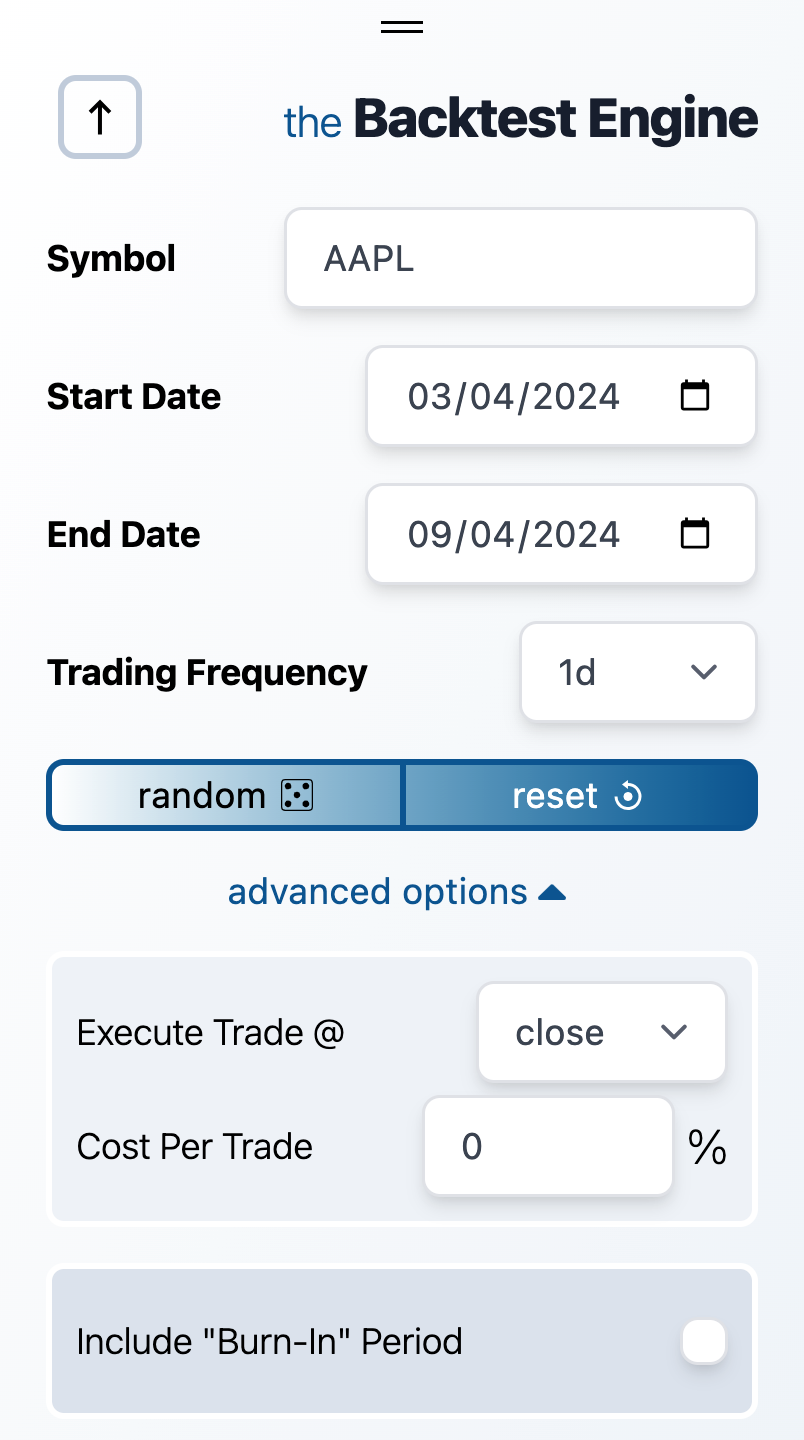
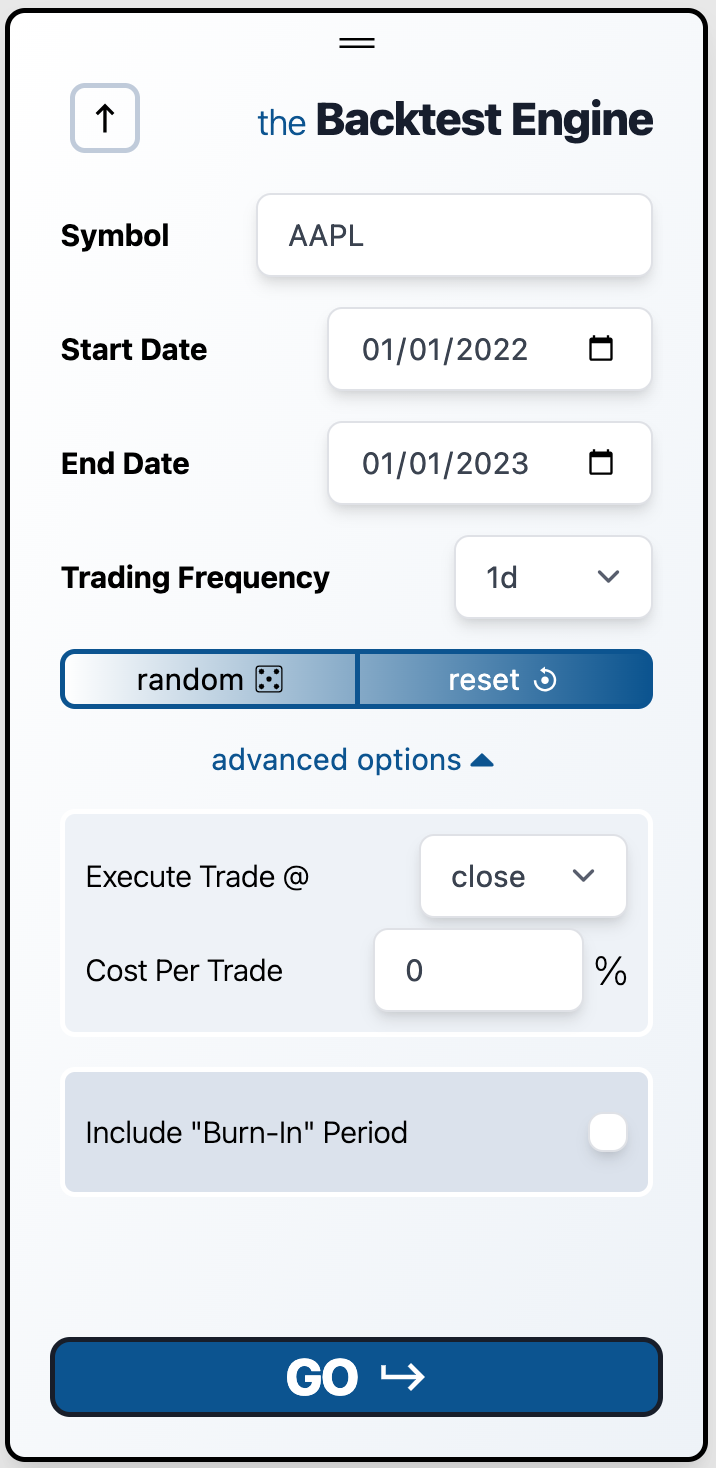
correct images for examples;

diff --git a/src/styles/custom.css b/src/styles/custom.css
@@ -12,6 +12,7 @@
 	--sl-color-gray-6: #182a2f;
 	--sl-color-black: #121a1c;
 }
+
 /* Light mode colors. */
 :root[data-theme='light'] {
 	--sl-color-accent-low: #b0deff;
@@ -28,4 +29,10 @@
 	--sl-color-black: #ffffff;
 }
 
-img[alt="backtest options"] { width: 350px; }
+img[alt="backtest options"] {
+	width: 350px;
+}
+
+img[alt="advanced backtest options"] {
+	width: 250px;
+}

diff --git a/src/content/docs/Getting Started/advancedWalkthrough.md b/src/content/docs/Getting Started/advancedWalkthrough.md
@@ -18,9 +18,9 @@ Our strategy will use two simple moving averages:
 
 #### Trading Rules  
 - **Buy (1):** When the short-term SMA crosses **above** the long-term SMA (bullish crossover).  
-- **Sell (-1):** When the short-term SMA crosses **below** the long-term SMA (bearish crossover).  
+- **Short (-1):** When the short-term SMA crosses **below** the long-term SMA (bearish crossover).  
 
-This approach helps us ride upward trends and exit when momentum weakens.  
+This approach helps us ride upward trends and bet against the asset when momentum weakens or reverses.  
 
 ### Strategy Code  
 
@@ -28,7 +28,7 @@ This approach helps us ride upward trends and exit when momentum weakens.
 '''
 Simple Moving Average Crossover Strategy
 
-Generates buy/sell signals based on two SMAs.
+Generates buy/short signals based on two SMAs.
 '''
 
 import pandas as pd
@@ -39,7 +39,7 @@ def strategy(data, short_window=10, long_window=50):
     
     data['signal'] = 0  # Default to hold  
     data.loc[data['SMA_short'] > data['SMA_long'], 'signal'] = 1  # Buy
-    data.loc[data['SMA_short'] < data['SMA_long'], 'signal'] = 0  # Exit Position (Sell)  
+    data.loc[data['SMA_short'] < data['SMA_long'], 'signal'] = -1  # Short  
     
     return data
 ```
@@ -60,7 +60,7 @@ data.loc[data['SMA_short'] > data['SMA_long'], 'signal'] = 1  # Buy
 data.loc[data['SMA_short'] < data['SMA_long'], 'signal'] = -1  # Exit Position (Sell)  
 ```
 
-This ensures that when the short SMA crosses above the long SMA, we go **long** (buy). When it crosses below, we go **short** (sell).  
+This ensures that when the short SMA crosses above the long SMA, we go **long** (buy). When it crosses below, we go **short**.  
 
 ### Running the Strategy in the Editor  
 
@@ -70,15 +70,25 @@ Now that the strategy is ready, let’s backtest it:
 2. **Select a stock** (e.g., AAPL) and a time range.  
 3. **Run the strategy** and analyze the results.  
 
-For this example, let’s test **AAPL from Jan 1, 2022, to Mar 1, 2022**.  
+For this example, let’s test **AAPL from Jan 1, 2022, to Jan 1, 2023**.  
 
 ### Backtest Results  
 
 If you've followed the steps correctly, your backtest should generate a performance chart.  
 
+![SMA result](../../../assets/secondStrategy.png)
+
 - The **blue line** represents the SMA crossover signals.  
 - The **candlestick chart** shows AAPL’s price movements.  
 - The **portfolio equity line** tracks performance based on signals.  
+
+:::note  
+If you examine the moving-averages attached to the strategy we just ran, you'll notice they aren't valid until day 50—when the 50-day moving average has accumulated enough data points:  
+
+![Needs Burn-in](../../../assets/secondStrategy_movingAverages.png)  
+
+To ensure the strategy is valid from day 1, we need a 50-day warm-up period. This is known as a "burn-in" period, an optional setting you can enable. To eliminate this 50-day gap, set the burn-in date to at least 50 business days prior. Learn more about this option [here](../running/advancedbacktestoptions).  
+:::
 
 ### Next Steps  
 

diff --git a/src/content/docs/Getting Started/simpleWalkthrough.md b/src/content/docs/Getting Started/simpleWalkthrough.md
@@ -64,14 +64,14 @@ For this example, we'll use **AAPL** stock from **Jan 1, 2022, to Mar 1, 2022**.
 
 ### Backtest Results  
 
-If you've followed along, you'll see a chart displaying your portfolio's performance. We lost **~2%** of our initial capital.
+If you've followed along, you'll see a chart displaying your portfolio's performance. We gained **~15%** of our initial capital.
 
-![An Example Strategy](../../../assets/result_stock1.png)
+![An Example Strategy](../../../assets/firstStrategy.png)
 
 - The **blue line** represents the trading signals over time.
 - The **candlestick** data is that of `AAPL`'s open/high/low/close price over the same period.
 - Our portfolio (**black line**) starts at **$1** and fluctuates based on the random signals.
-> Funny enough, we actually outperformed `AAPL`, but let’s be clear—it’s generally not a great idea to trade randomly!
+> Funny enough, we actually outperformed `AAPL`, but let’s be clear—it’s generally not a great idea to trade randomly! Also note that your result will be different (it's a random strategy).
 
 ### Next Steps  
 

diff --git a/src/content/docs/Running/advancedBacktestOptions.md b/src/content/docs/Running/advancedBacktestOptions.md
@@ -5,7 +5,7 @@ description: Some Optional Options for Ultimate Customizability
 
 Click the `advanced options` dropdown to reveal 3 additional customization options.
 
-![backtest options](../../../assets/light_engineWithAdvanced.png)
+![advanced backtest options](../../../assets/light_engineWithAdvanced.png)
 
 ### 1. Execute Trade @
 
